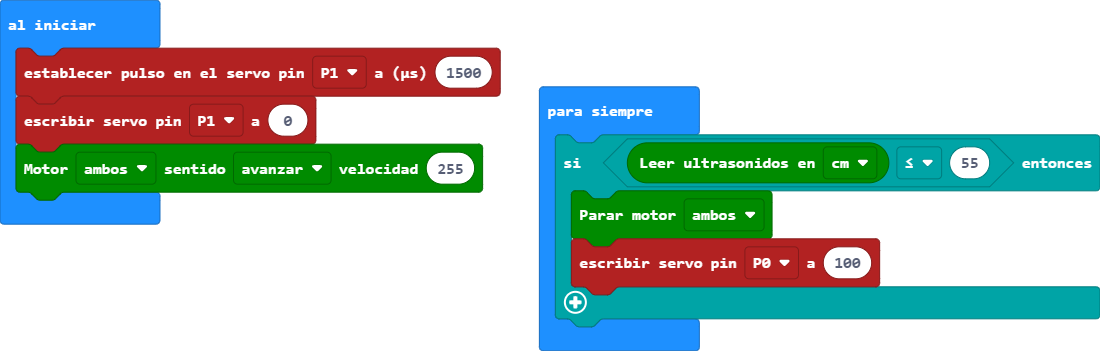
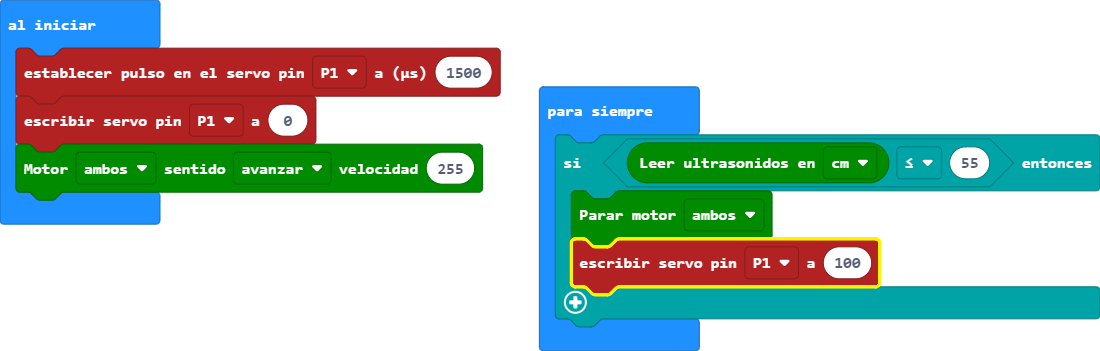
Actualizar main.blocks, main.ts

Changed region(s): [[0.4945, 0.6553, 0.8036, 0.8547], [0.68, 0.7407, 0.7109, 0.7692]]

diff --git a/main.ts b/main.ts
@@ -4,6 +4,6 @@ maqueen.motorRun(maqueen.Motors.All, maqueen.Dir.CW, 255)
 basic.forever(function () {
     if (maqueen.Ultrasonic(PingUnit.Centimeters) <= 55) {
         maqueen.motorStop(maqueen.Motors.All)
-        pins.servoWritePin(AnalogPin.P0, 100)
+        pins.servoWritePin(AnalogPin.P1, 100)
     }
 })
